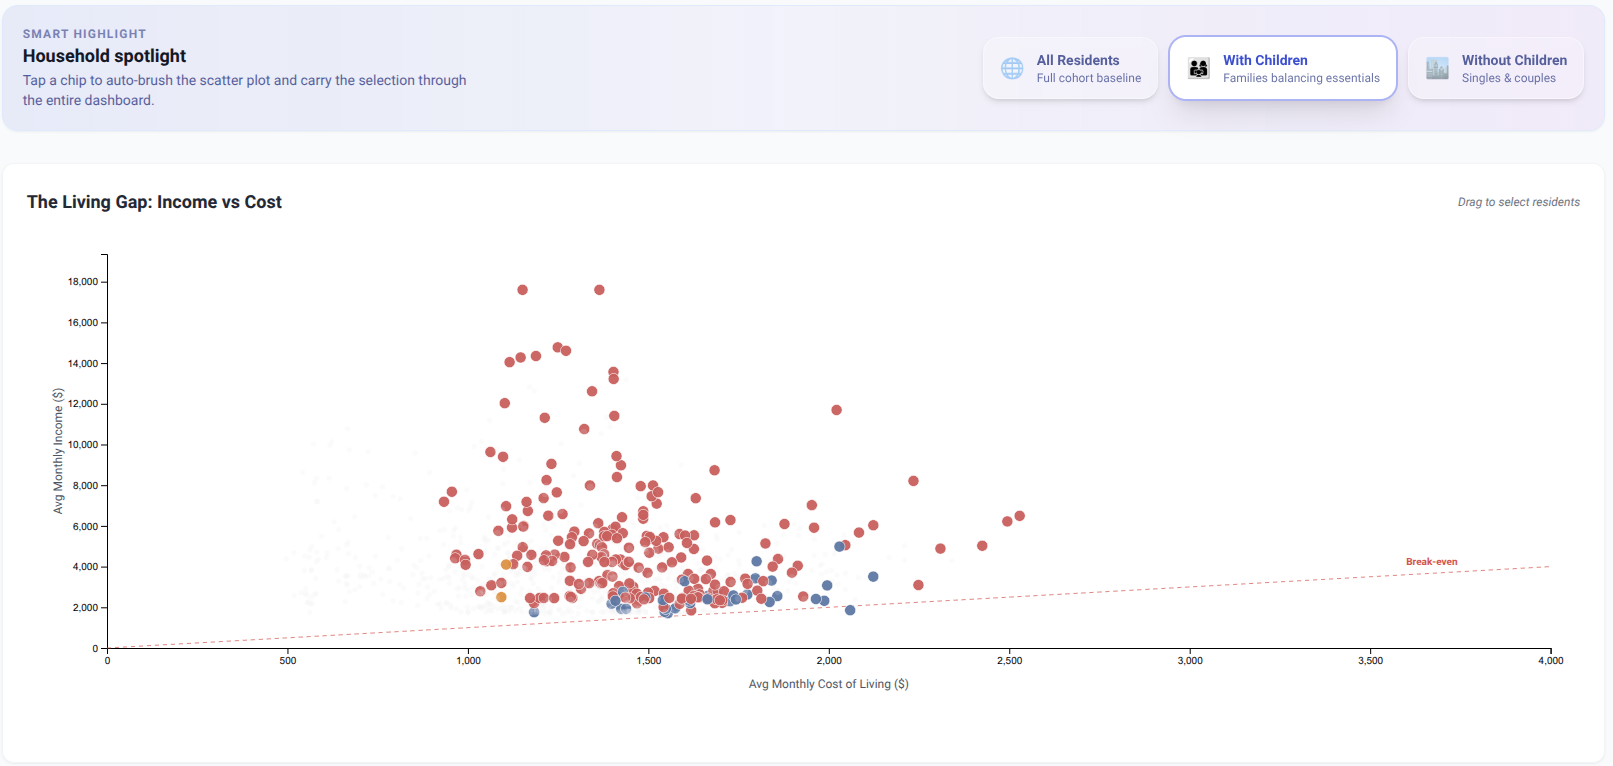
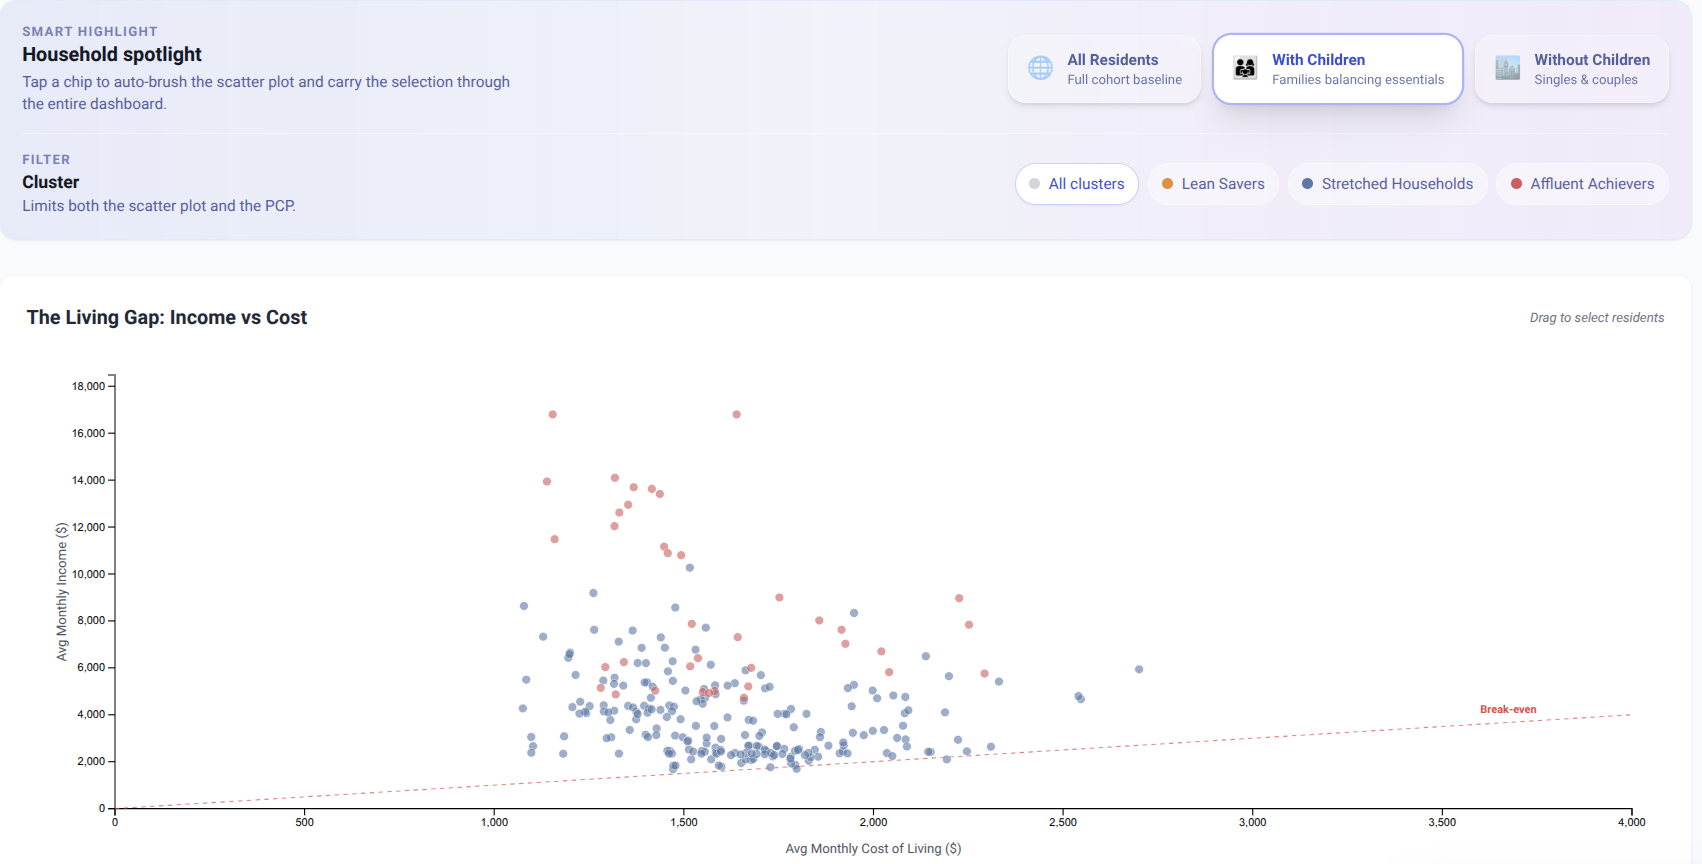
Updated presentation and index

diff --git a/submission/index.html b/submission/index.html
@@ -69,7 +69,7 @@ a:visited {
 </head>
 <body>
 
-<h2 class="calibri center">Entry Name: "EngageViz"</h2>
+<h2 class="calibri center">Entry Name: "Pulse of Engagement"</h2>
 
 <h2 class="calibri center">VAST Challenge 2022<br><u>Challenge 3</u></h2>
 
@@ -138,11 +138,14 @@ We looked at resident financial health from three angles: where financial stress
 </p>
 
 <p class="calibri">
-<b>Wages vs. Cost of Living.</b> The Living Gap scatter plot (Figure 3) puts wages against total living costs and makes the break-even line an immediate reference point. Most residents sit on the surplus side, but the dense band near break-even suggests many households have only a thin “buffer” month to month (Figure 3). When filtering by household type, families with children cluster noticeably closer to break-even than households without children (Figures 4 &amp; 5), even when incomes overlap—consistent with higher fixed costs.
+</p>
+
+<p class="calibri">
+<b>Wages vs. Cost of Living.</b> The Living Gap scatter plot (Figure 3) puts wages against total living costs and makes the break-even line an immediate reference point. Most residents sit on the surplus side, but the dense band near break-even suggests many households have only a thin “buffer” month to month (Figure 3). When filtering by household type, the “with children” group shifts right (Figures 4 &amp; 5), indicating higher living costs; the main takeaway is the higher cost burden rather than a fundamentally different income distribution.
 </p>
 
 <p class="calibri" style="text-align:center;">
-  <img src="./img/living_gap_all.png" alt="Living Gap All Residents" style="max-width:90%; margin:10px;"><br>
+  <img src="./img/scatter.png" alt="Living Gap All Residents" style="max-width:70%; margin:10px;"><br>
   <i>Figure 3: All residents.</i><br><br>
   <img src="./img/living_gap_w_child.png" alt="Living Gap With Children" style="max-width:90%; margin:10px;"><br>
   <i>Figure 4: Families with children.</i><br><br>
@@ -151,13 +154,13 @@ We looked at resident financial health from three angles: where financial stress
 </p>
 
 <p class="calibri">
-<b>Cluster Patterns.</b> Using k-means, we get three recurring “financial personas” (Figure 6): <b>Affluent Achievers</b> (very high incomes and high savings), <b>Stretched Households</b> (lower incomes with tighter budgets and lower savings capacity), and <b>Lean Savers</b> (modest-to-moderate incomes with slightly lower cost burden relative to income, enabling somewhat higher savings than Stretched). These personas overlap; labels summarize dominant tendencies rather than strict rules. In April 2022 (the month shown in Figures 3–7), the medians (Income / Cost / SavingsRate) were: <b>Affluent</b> $5,756 / $1,419 / 76.6%, <b>Stretched</b> $2,869 / $1,405 / 51.0%, and <b>Lean</b> $3,352 / $1,586 / 54.5%. Importantly, the clearest cluster separation signals come from household composition and education: <b>having kids</b> (η² 83.1%), <b>graduate education</b> (η² 72.0%), <b>household size</b> (η² 61.9%), and <b>income</b> (η² 38.0%). The parallel coordinates plot (Figure 6) then helps validate how these personas differ across income, total costs, and savings.
+<b>Cluster Patterns.</b> Using k-means, we get three recurring “financial personas”: <b>Affluent Achievers</b> (very high incomes and high savings), <b>Stretched Households</b> (lower incomes with tighter budgets and lower savings capacity), and <b>Lean Savers</b> (modest-to-moderate incomes with a different cost/income balance than Stretched). These personas overlap; labels summarize dominant tendencies rather than strict rules. In April 2022 (the month shown in Figures 3–7), the medians (Income / Cost / Savings Rate) were: <b>Affluent</b> $5,756 / $1,419 / 76.6%, <b>Stretched</b> $2,869 / $1,405 / 51.0%, and <b>Lean</b> $3,352 / $1,586 / 54.5%. The clearest separation signals in demographics are <b>having kids</b> (η² 83.1%), <b>graduate education</b> (η² 72.0%), <b>household size</b> (η² 61.9%), and <b>income</b> (η² 38.0%). Figures 6–7 illustrate that our visualizations can be filtered by cluster: we show the <b>Affluent Achievers</b> profile in the parallel coordinates plot (Figure 6) and their Living Gap scatter distribution (Figure 7).
 </p>
 
 <p class="calibri" style="text-align:center;">
-  <img src="./img/demographic_parallel_plot.png" alt="Parallel Coordinates Clusters" style="max-width:55%; margin:10px;">
-  <img src="./img/demographic_savings_rates.png" alt="Savings by Demographics" style="max-width:28%; margin:10px;"><br>
-  <i>Figure 6 (left): Parallel coordinates showing cluster profiles. Figure 7 (right): Savings rates by education and household size.</i>
+    <img src="./img/affluent_PCP.png" alt="Affluent Achievers PCP" style="max-width:55%; margin:10px;">
+    <img src="./img/affluent_scatter.png" alt="Affluent Achievers Living Gap Scatter" style="max-width:40%; margin:10px;"><br>
+    <i>Figure 6 (left): Parallel coordinates profile for the Affluent Achievers cluster. Figure 7 (right): Living Gap scatter filtered to the same cluster.</i>
 </p>
 
 <p class="calibri">
@@ -171,12 +174,16 @@ We looked at resident financial health from three angles: where financial stress
 </p>
 
 <p class="calibri" style="text-align:center;">
-  <img src="./img/inequality_timeline.png" alt="Inequality Timeline" style="max-width:60%; margin:10px;"><br>
-  <i>Figure 10: Gini coefficient for income (blue) and savings rate (red) over time. The formula G = (2 * sum(i * yi)) / (n * sum(yi)) - (n+1)/n measures inequality from 0 (equal) to 1 (unequal).</i>
+    <img src="./img/gini_inequality.png" alt="Inequality Timeline" style="max-width:80%; margin:10px;"><br>
+    <i>Figure 10: Gini coefficient for income (blue) and savings rate (red) over time. The formula G = (2 * sum(i * yi)) / (n * sum(yi)) - (n+1)/n measures inequality from 0 (equal) to 1 (unequal).</i>
 </p>
 
 <p class="calibri">
-<b>Conclusion.</b> Financial health in Engagement is stable on aggregate but uneven: the strongest, most consistent strain signal comes from household structure—especially families with children sitting near break-even (Figures 4–5). Cost pressures matter most: <b>cost of living</b> is the strongest predictor of SavingsRate (ΔR² 0.828), followed by <b>income</b> (0.408), <b>household size</b> (0.376), and <b>having kids</b> (0.127). Persistent geographic hotspots (Figures 1–2) suggest targeted neighborhood interventions could have outsized impact.
+<b>Conclusion.</b> Financial health in Engagement is stable on aggregate but uneven: the strongest, most consistent strain signal comes from household structure, especially families with children sitting near break-even (Figures 4–5). Cost pressures matter most: <b>cost of living</b> is the strongest predictor of savings rate (ΔR² 0.828), followed by <b>income</b> (0.408), <b>household size</b> (0.376), and <b>having kids</b> (0.127). Persistent geographic hotspots (Figures 1–2) suggest targeted neighborhood interventions could have outsized impact.
+</p>
+
+<p class="calibri">
+<b>Notes on metrics.</b> <b>R²</b> measures how much variance in savings rate a model explains: <b>R² = 1 − SSE/SST</b>. The reported <b>ΔR²</b> values indicate each predictor’s additional (incremental) contribution when added to the multivariate model. <b>η²</b> is an effect-size for group separation: <b>η² = SSB/SST</b>, i.e., the share of variance in a variable explained by cluster membership.
 </p>
 
 <p class="calibri"><b>3</b> - <span class="arial">Describe the health of the various employers within the city limits. What employment patterns do you observe? Do you notice any areas of particularly high or low turnover? Limit your response to 10 images and 500 words.</span></p>
